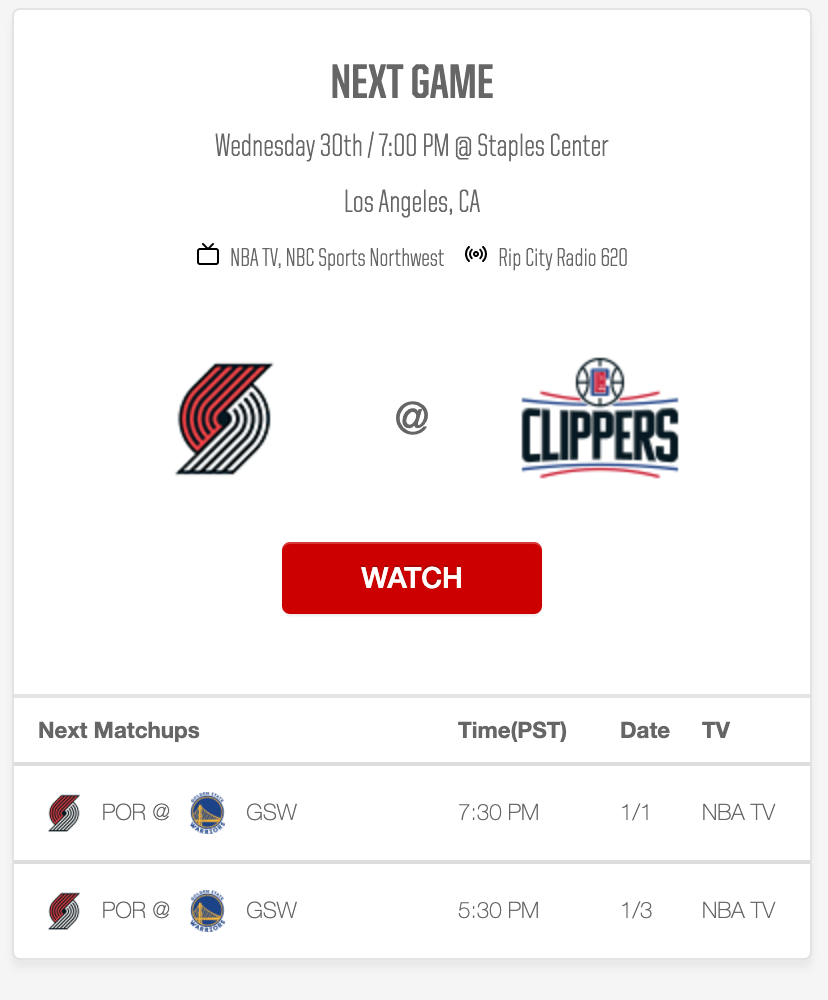
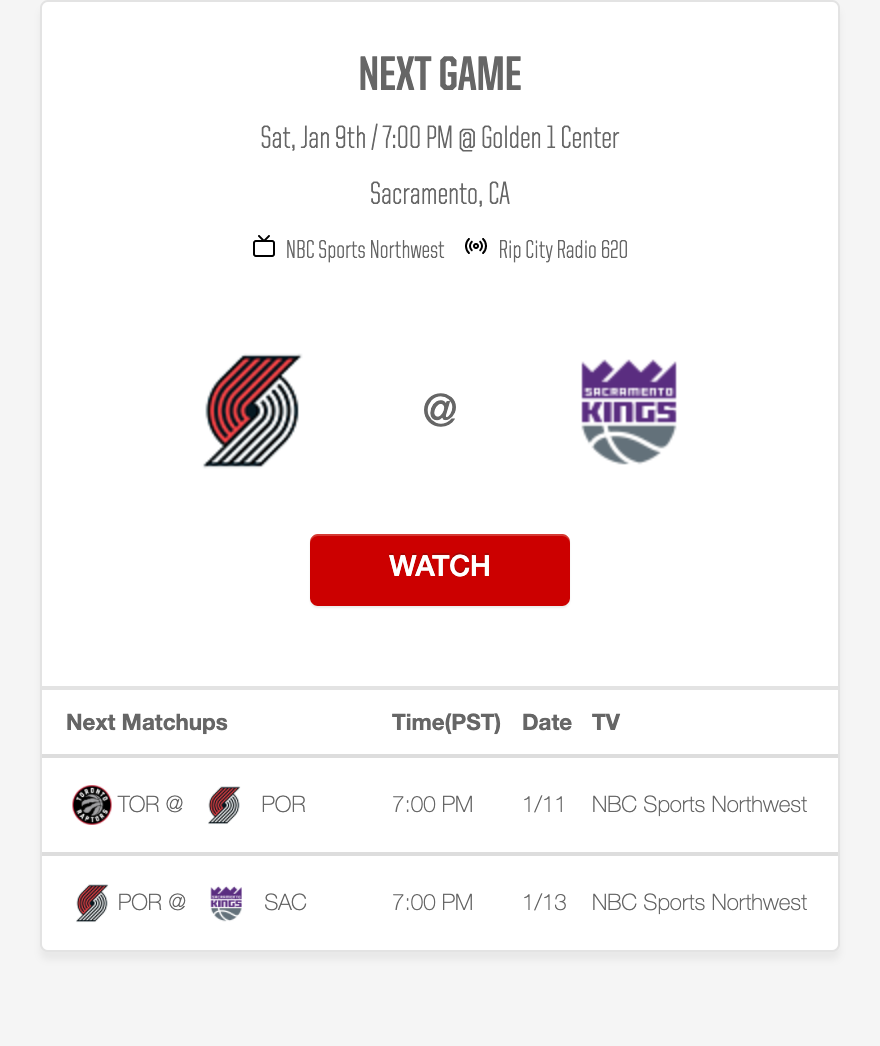
time bug squashed

diff --git a/script.js b/script.js
@@ -42,8 +42,14 @@ async function main() {
 
   // gets current date and reformats it
   const now = new Date();
+
+  // this turns the date into 4-digit year, 2-digit month and 2-digit day to compare
+  // against future game days
+  // if the day/month is a single digit, a 0 is added before
   const today =
-    `${now.getFullYear()}` + `${now.getMonth() + 1}` + `${now.getDate()}`;
+    `${now.getFullYear()}` +
+    `${now.getMonth() >= 10 ? now.getMonth() + 1 : `0${now.getMonth() + 1}`}` +
+    `${now.getDate() >= 10 ? now.getDate() : `0${now.getDate()}`}`;
 
   // creates an new array with all past games removed
   const futureGames = gscd.g.filter(
@@ -78,7 +84,7 @@ async function main() {
 
   // formats game day date, time, and arena
   const gameDayDate = `${gameDay.toLocaleString(undefined, {
-    weekday: 'long',
+    weekday: 'short',
   })}, ${gameDay.toLocaleString(undefined, {
     month: 'short',
   })} ${dateOrdinal(gameDay.getDate())} / ${formatTime(gameDay)} @ ${
